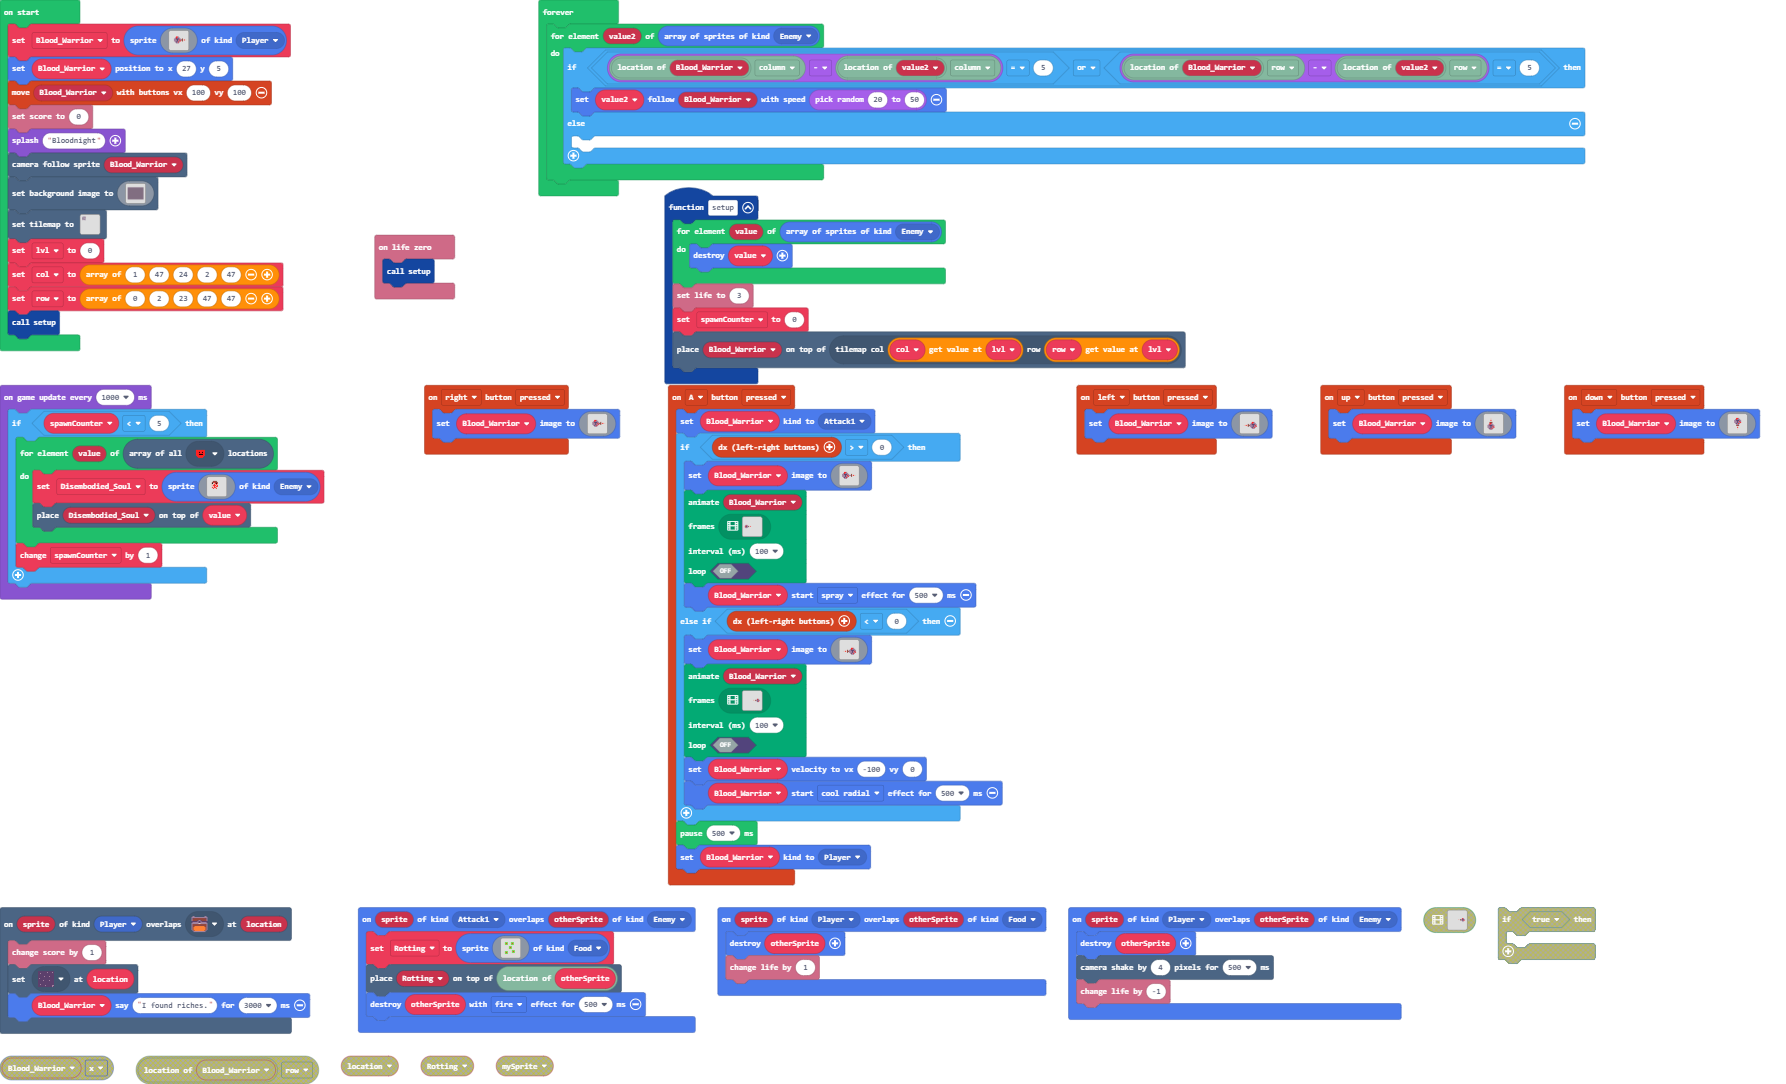
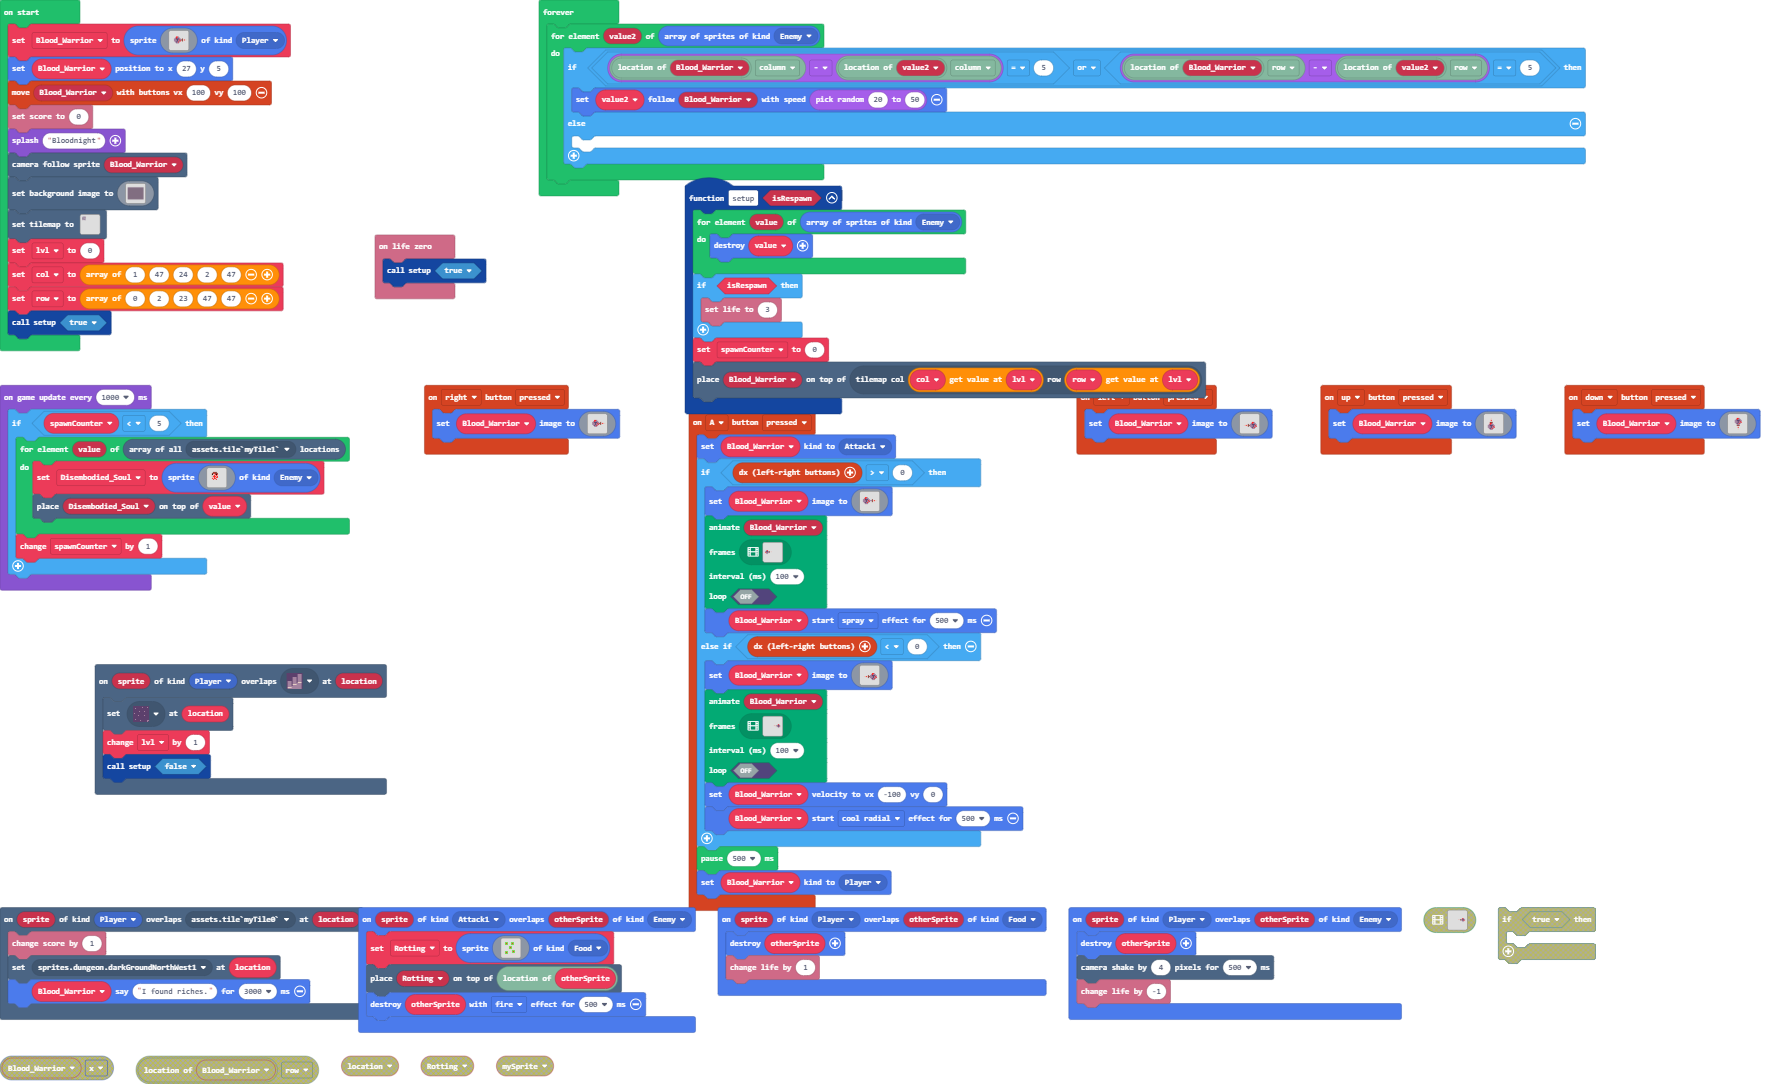
LevelTP

diff --git a/tilemap.g.ts b/tilemap.g.ts
@@ -84,6 +84,25 @@ namespace myTiles {
 ......................................................................
 ......................................................................
 `, [myTiles.transparency16,sprites.dungeon.darkGroundNorthWest1,sprites.dungeon.collectibleInsignia,sprites.dungeon.stairLarge,myTiles.tile2,myTiles.tile3], TileScale.Sixteen);
+            case "level2":
+            case "level2":return tiles.createTilemap(hex`1000100000000000000000000000000000000000000000000000000000000000000000000000000000000000000000000000000000000000000000000000000000000000000000000000000000000000000000000000000000000000000000000000000000000000000000000000000000000000000000000000000000000000000000000000000000000000000000000000000000000000000000000000000000000000000000000000000000000000000000000000000000000000000000000000000000000000000000000000000000000000000000000000000000000000000000000000000000000000000000000000000000000000000000000000000000000000`, img`
+. . . . . . . . . . . . . . . . 
+. . . . . . . . . . . . . . . . 
+. . . . . . . . . . . . . . . . 
+. . . . . . . . . . . . . . . . 
+. . . . . . . . . . . . . . . . 
+. . . . . . . . . . . . . . . . 
+. . . . . . . . . . . . . . . . 
+. . . . . . . . . . . . . . . . 
+. . . . . . . . . . . . . . . . 
+. . . . . . . . . . . . . . . . 
+. . . . . . . . . . . . . . . . 
+. . . . . . . . . . . . . . . . 
+. . . . . . . . . . . . . . . . 
+. . . . . . . . . . . . . . . . 
+. . . . . . . . . . . . . . . . 
+. . . . . . . . . . . . . . . . 
+`, [myTiles.transparency16], TileScale.Sixteen);
         }
         return null;
     })

diff --git a/main.ts b/main.ts
@@ -83,19 +83,26 @@ controller.down.onEvent(ControllerButtonEvent.Pressed, function () {
     Blood_Warrior.setImage(assets.image`left`)
 })
 info.onLifeZero(function () {
-    setup()
+    setup(true)
 })
-function setup () {
+function setup (isRespawn: boolean) {
     for (let value of sprites.allOfKind(SpriteKind.Enemy)) {
         value.destroy()
     }
-    info.setLife(3)
+    if (isRespawn) {
+        info.setLife(3)
+    }
     spawnCounter = 0
     tiles.placeOnTile(Blood_Warrior, tiles.getTileLocation(col[lvl], row[lvl]))
 }
 sprites.onOverlap(SpriteKind.Player, SpriteKind.Food, function (sprite, otherSprite) {
     otherSprite.destroy()
     info.changeLifeBy(1)
+})
+scene.onOverlapTile(SpriteKind.Player, sprites.dungeon.stairLarge, function (sprite, location) {
+    tiles.setTileAt(location, sprites.dungeon.darkGroundNorthWest1)
+    lvl += 1
+    setup(false)
 })
 sprites.onOverlap(SpriteKind.Player, SpriteKind.Enemy, function (sprite, otherSprite) {
     otherSprite.destroy()
@@ -241,7 +248,7 @@ tiles.setTilemap(tilemap`level1`)
 lvl = 0
 col = [1, 47, 24, 2, 47]
 row = [0, 2, 23, 47, 47]
-setup()
+setup(true)
 game.onUpdateInterval(1000, function () {
     if (spawnCounter < 5) {
         for (let value of tiles.getTilesByType(assets.tile`myTile1`)) {
